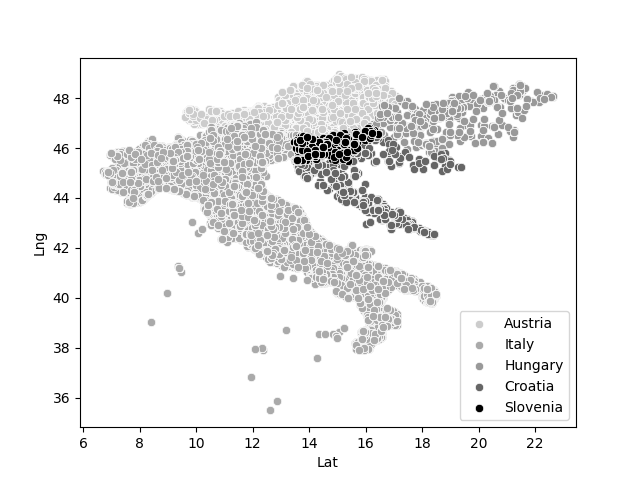
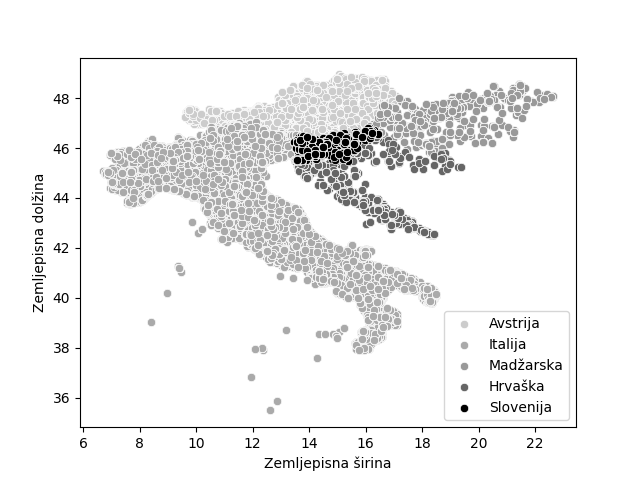
Slovene pictures

Changed region(s): [[0.7188, 0.6562, 0.875, 0.875], [0.0312, 0.375, 0.0938, 0.6562], [0.4062, 0.9375, 0.625, 1.0]]

diff --git a/masters/analyser/kilometers/trip_length.py b/masters/analyser/kilometers/trip_length.py
@@ -96,35 +96,35 @@ order by user_id, cast(review_id as INTEGER) asc
     k, a, b, c, d, e, f, g = 2, 2, 2, 2, 2, 2, 2, 2
     trips = sorted(trips)
     for lenght in trips:
-        if lenght < 1:
+        if lenght <= 1:
             title_arr.append("1")
             days_arr.append("Trip time")
             k += 1
-        elif 1 <= lenght < 2:
+        elif 1 < lenght <= 2:
             title_arr.append("2")
             days_arr.append("Trip time")
             a += 1
-        elif 1 < lenght < 3:
+        elif 2 < lenght <= 3:
             title_arr.append("3")
             days_arr.append("Trip time")
             b += 1
-        elif 2 < lenght < 4:
+        elif 3 < lenght <= 4:
             title_arr.append("4")
             days_arr.append("Trip time")
             c += 1
-        elif 3 < lenght < 6:
+        elif 5 < lenght <= 6:
             title_arr.append("5-6")
             days_arr.append("Trip time")
             d += 1
-        elif 5 < lenght < 11:
+        elif 6 < lenght <= 11:
             title_arr.append("7-11")
             days_arr.append("Trip time")
             e += 1
-        elif 10 < lenght < 16:
+        elif 11 < lenght <= 16:
             title_arr.append("12-16")
             days_arr.append("Trip time")
             f += 1
-        elif lenght > 15:
+        elif lenght > 16:
             title_arr.append("17+")
             days_arr.append("Trip time")
             g += 1
@@ -198,10 +198,11 @@ for e in title_arr2:
 for e in days_arr2:
     days_arr.append(e)
 
-d = {'Days': title_arr, 'Year of travel': days_arr}
+d = {'Časovni interval': title_arr, 'Leto potovanja': days_arr}
 df = pd.DataFrame(data=d)
 plt.xticks(rotation=45)
-sns.histplot(data=df, x="Days", hue="Year of travel", kde=False,
+plt.ylabel("Delež potovanj (%)")
+sns.histplot(data=df, x="Časovni interval", hue="Leto potovanja", kde=False,
              multiple="dodge")
 plt.savefig(f'trip_lenght.png'.format())
 plt.show()

diff --git a/masters/analyser/2dgraph/2d.py b/masters/analyser/2dgraph/2d.py
@@ -45,7 +45,7 @@ def graph(year_from, year_to, country, color):
             hu_y_arr.append(float(el[1]))
 
     sl_dataset = {'SLat': sl_x_arr, 'SLng': sl_y_arr}
-    au_dataset = {'Lat': au_x_arr, 'Lng': au_y_arr}
+    au_dataset = {'Zemljepisna širina': au_x_arr, 'Zemljepisna dolžina': au_y_arr}
     it_dataset = {'ILat': it_x_arr, 'ILng': it_y_arr}
     hu_dataset = {'HLat': hu_x_arr, 'HLng': hu_y_arr}
     cr_dataset = {'CLat': cr_x_arr, 'CLng': cr_y_arr}
@@ -65,11 +65,11 @@ def graph(year_from, year_to, country, color):
     #sns.scatterplot(x=crdset['CLat'], y=crdset['CLng'], color="#ffc37e", label="Croatia")
     #sns.scatterplot(x=sldset['SLat'], y=sldset['SLng'], color="#ff4e60", label="Slovenia")
 
-    sns.scatterplot(x=audset['Lat'], y=audset['Lng'], color="#ccc", label="Austria", kde=True)
-    sns.scatterplot(x=itdset['ILat'], y=itdset['ILng'], color="#aaa", label="Italy", kde=True)
-    sns.scatterplot(x=hudset['HLat'], y=hudset['HLng'], color="#999", label="Hungary", kde=True)
-    sns.scatterplot(x=crdset['CLat'], y=crdset['CLng'], color="#666", label="Croatia", kde=True)
-    sns.scatterplot(x=sldset['SLat'], y=sldset['SLng'], color="#000", label="Slovenia", kde=True)
+    sns.scatterplot(x=audset['Zemljepisna širina'], y=audset['Zemljepisna dolžina'], color="#ccc", label="Avstrija")
+    sns.scatterplot(x=itdset['ILat'], y=itdset['ILng'], color="#aaa", label="Italija")
+    sns.scatterplot(x=hudset['HLat'], y=hudset['HLng'], color="#999", label="Madžarska")
+    sns.scatterplot(x=crdset['CLat'], y=crdset['CLng'], color="#666", label="Hrvaška")
+    sns.scatterplot(x=sldset['SLat'], y=sldset['SLng'], color="#000", label="Slovenija")
 
     #sns.jointplot(x=dset['Lat'], y=dset['Lng'], kind='scatter', color="#2980b9")
     #sns.jointplot(x=dset['Lng'], y=dset['Lat'], kind='scatter', color="#c0392b")

diff --git a/masters/analyser/histograms/yearly_reviews_by_month.py b/masters/analyser/histograms/yearly_reviews_by_month.py
@@ -19,17 +19,17 @@ def map_date(date):
     if month == "04":
         return "Apr" + year
     if month == "05":
-        return "May" + year
+        return "Maj" + year
     if month == "06":
         return "Jun" + year
     if month == "07":
         return "Jul" + year
     if month == "08":
-        return "Aug" + year
+        return "Avg" + year
     if month == "09":
         return "Sep" + year
     if month == "10":
-        return "Oct" + year
+        return "Okt" + year
     if month == "11":
         return "Nov" + year
     if month == "12":
@@ -57,18 +57,19 @@ def get_monthly_visits(country, year_from, year_to):
 
     for el in data:
         month_arr.append(map_date(el[0]))
-        type_arr.append("Date of experience")
+        type_arr.append("Datum obiska")
 
     f, axes = plt.subplots(1, 1, figsize=(11, 7), sharex=True)
-    d = {'Month': month_arr, 'Type': type_arr}
+    d = {'Month': month_arr, 'Tip': type_arr}
     df = pd.DataFrame(data=d)
     # sns.distplot(df, label="2020")
-    sns.histplot(data=df, x="Month", hue="Type", kde=False,
+    sns.histplot(data=df, x="Month", hue="Tip", kde=False,
                  multiple="dodge")
     plt.xticks(rotation=65)
-    plt.savefig(f'{country}-{year_from}.png'.format(country=country, year_from=year_from))
+    plt.ylabel("Št. objav")
+    plt.savefig(f'{country}-{year_from}-slovensko.png'.format(country=country, year_from=year_from))
     plt.show()
 
 
-get_monthly_visits('all', 20180100, 20210200)
+get_monthly_visits('all', 20190100, 20210200)
 # get_monthly_visits('slovenia', 20190100, 20200100)

diff --git a/masters/analyser/histograms/frequency_reviews_by_months.py b/masters/analyser/histograms/frequency_reviews_by_months.py
@@ -20,17 +20,17 @@ def map_date(date):
     if month == "04":
         return "Apr"
     if month == "05":
-        return "May"
+        return "Maj"
     if month == "06":
         return "Jun"
     if month == "07":
         return "Jul"
     if month == "08":
-        return "Aug"
+        return "Avg"
     if month == "09":
         return "Sep"
     if month == "10":
-        return "Oct"
+        return "Okt"
     if month == "11":
         return "Nov"
     if month == "12":
@@ -62,12 +62,12 @@ def get_monthly_visits(country, year_from, year_to):
         type_arr.append("Date of experience")
 
     f, axes = plt.subplots(1, 1, figsize=(7, 7), sharex=True)
-    d = {'Month': month_arr, 'Type': type_arr}
+    d = {'Month': month_arr, 'Tip': type_arr}
     df = pd.DataFrame(data=d)
     # sns.distplot(df, label="2020")
-    sns.histplot(data=df, x="Month", hue="Type", kde=True,
+    sns.histplot(data=df, x="Month", hue="Tip", kde=True,
                  multiple="dodge")
-    plt.savefig(f'{country}-{year_from}.png'.format(country=country, year_from=year_from))
+    plt.savefig(f'{country}-{year_from}-slovensko.png'.format(country=country, year_from=year_from))
     plt.show()
 
 

diff --git a/masters/analyser/2dgraph/2d_per_country.py b/masters/analyser/2dgraph/2d_per_country.py
@@ -24,14 +24,14 @@ def graph(year_from, year_to, country, color):
         x_arr.append(float(el[0]))
         y_arr.append(float(el[1]))
 
-    dataset = {'Lat': x_arr, 'Lng': y_arr}
+    dataset = {'Zemljepisna širina': x_arr, 'Zemljepisna dolžina': y_arr}
     dset = pd.DataFrame(data=dataset)
     sns.set_theme()
     # Custom the inside plot: options are: “scatter” | “reg” | “resid” | “kde” | “hex”
-    sns.jointplot(x=dset['Lat'], y=dset['Lng'], kind='scatter', color=color)
+    sns.jointplot(x=dset['Zemljepisna širina'], y=dset['Zemljepisna dolžina'], kind='scatter', color=color)
     plt.savefig(f'{country}-{year_from}-scatter.png'.format(country=country, year_from=year_from))
-    sns.jointplot(x=dset['Lat'], y=dset['Lng'], kind='kde', color=color)
-    plt.savefig(f'{country}-{year_from}-kde.png'.format(country=country, year_from=year_from))
+    sns.jointplot(x=dset['Zemljepisna širina'], y=dset['Zemljepisna dolžina'], kind='kde', color=color)
+    plt.savefig(f'{country}-{year_from}-kde-slovensko.png'.format(country=country, year_from=year_from))
     plt.show()
 
 

diff --git a/masters/analyser/2dgraph/heatmap.py b/masters/analyser/2dgraph/heatmap.py
@@ -23,7 +23,7 @@ def graph(year_from, year_to, country, color):
         x_arr.append(float(el[0]))
         y_arr.append(float(el[1]))
 
-    dataset = {'Lat': x_arr, 'Lng': y_arr}
+    dataset = {'Zemljepisna širina': x_arr, 'Zemljepisna dolžina': y_arr}
     dset = pd.DataFrame(data=dataset)
     sns.set_theme()
     sns.set_style("white")
@@ -32,7 +32,7 @@ def graph(year_from, year_to, country, color):
     # Custom the inside plot: options are: “scatter” | “reg” | “resid” | “kde” | “hex”
     #sns.jointplot(x=dset['Lat'], y=dset['Lng'], kind='scatter', color=color)
     #plt.savefig(f'{country}-{year_from}-scatter.png'.format(country=country, year_from=year_from))
-    sns.kdeplot(x=dset['Lat'], y=dset['Lng'], cmap="Reds", shade=True, bw_adjust=.5)
+    sns.kdeplot(x=dset['Zemljepisna širina'], y=dset['Zemljepisna dolžina'], cmap="Reds", shade=True, bw_adjust=.5)
     #sns.jointplot(x=dset['Lat'], y=dset['Lng'], kind='kde', color=color)
     plt.savefig(f'{country}-{year_from}-kde.png'.format(country=country, year_from=year_from))
     plt.show()

diff --git a/masters/analyser/kilometers/kilometers_traveled.py b/masters/analyser/kilometers/kilometers_traveled.py
@@ -192,10 +192,11 @@ for e in title_arr2:
 for e in days_arr2:
     days_arr.append(e)
 
-d = {'Kilometers traveled': title_arr, 'Year of travel': days_arr}
+d = {'Prepotovani kilometri': title_arr, 'Leto potovanja': days_arr}
 df = pd.DataFrame(data=d)
 plt.xticks(rotation=45)
-sns.histplot(data=df, x="Kilometers traveled", hue="Year of travel", kde=True,
+plt.ylabel("Delež potovanj (%)")
+sns.histplot(data=df, x="Prepotovani kilometri", hue="Leto potovanja", kde=True,
              multiple="dodge")
 plt.savefig(f'kilometers_traveled.png'.format())
 plt.show()

diff --git a/masters/analyser/spider_net/spider_net.py b/masters/analyser/spider_net/spider_net.py
@@ -150,7 +150,7 @@ plt.xticks(angles[:-1], categories)
 
 # Draw ylabels
 ax.set_rlabel_position(0)
-plt.yticks([0.5, 2.5, 6], ["5%", "10%", "30%"], color="grey", size=7)
+plt.yticks([0.5, 2, 6], ["3%", "10%", "20%"], color="grey", size=7)
 plt.ylim(0, 6)
 
 # ------- PART 2: Add plots
